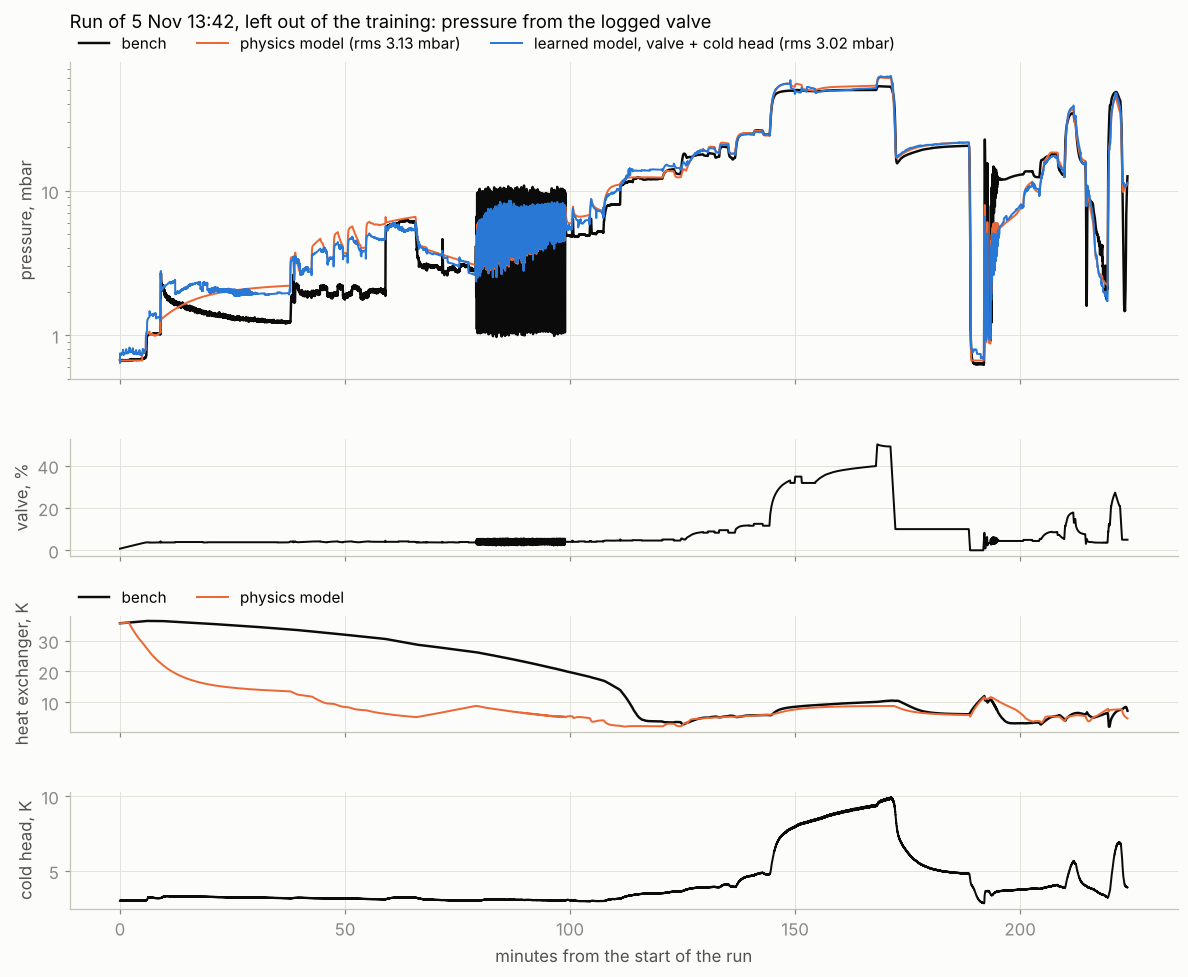
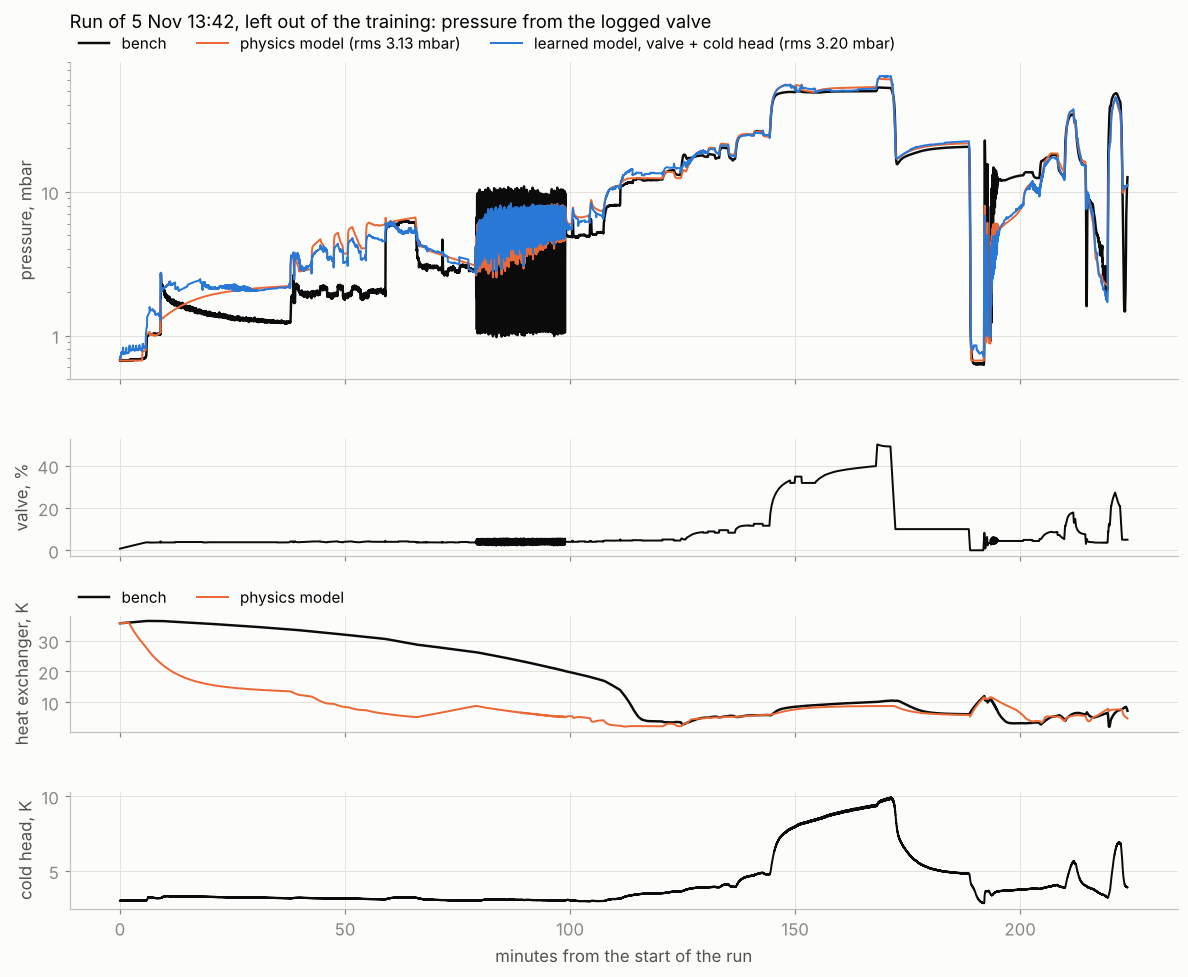
0.16.8 sim: learned fit rerun with the 10 Nov 17:25 log (16 logs)
The 24 mbar autotune and 48 mbar reach of 10 Nov 16:42 added as a ninth
held-out group. Valve alone still ties the physics model (1.47 against
1.45 mbar rms); with the cold head it is 1.36 mbar. Results, figures and
README numbers regenerated.

Claude-Session: https://claude.ai/code/session_01N4NW6yz4UDcWqUDw34ueg6

diff --git a/simulator/ml-fit/README.md b/simulator/ml-fit/README.md
@@ -8,46 +8,46 @@ python3 fit.py <folder of pmc_session_*.csv> [--out results]
 
 Needs numpy, scikit-learn and matplotlib (`tried/` also needs torch). Takes about 5 min the first time (it caches the physics runs in `results/features.pkl`). The session logs themselves are not in the repository.
 
-## Result (15 logs, 5 to 10 Nov 2026)
+## Result (16 logs, 5 to 10 Nov 2026)
 
-**On the valve alone, the learned model ties the physics model. Given the cold head temperature as well, it is about 10 % better overall, and clearly closer between 2 and 8 mbar (12 to 14 % off instead of 21 to 22 %). Under 2 mbar there is no gain.**
+**On the valve alone, the learned model ties the physics model. Given the cold head temperature as well, it is about 6 % better overall, and clearly closer between 2 and 8 mbar (10 to 13 % off instead of 21 to 22 %). Under 2 mbar there is no gain.**
 
-Median error of the pressure on held-out runs, as a percentage of the pressure (rms in mbar in brackets). Cryostat cold (heat exchanger under 20 K), 70,216 one-second samples:
+Median error of the pressure on held-out runs, as a percentage of the pressure (rms in mbar in brackets). Cryostat cold (heat exchanger under 20 K), 72,199 one-second samples:
 
 | Bench pressure, mbar | Physics model | Learned, valve only | Learned, valve + cold head |
 |---|---|---|---|
-| under 2 | 17 % (0.78) | 21 % (0.83) | 20 % (0.74) |
-| 2 to 4 | 21 % (1.11) | 23 % (1.01) | 12 % (0.87) |
-| 4 to 8 | 22 % (1.41) | 14 % (1.20) | 14 % (1.07) |
-| 8 to 24 | 8 % (1.18) | 8 % (1.43) | 6 % (1.21) |
-| over 24 | 2 % (3.35) | 1 % (2.62) | 1 % (2.61) |
-| all | 8 % (1.46) | 10 % (1.47) | 6 % (1.31) |
+| under 2 | 17 % (0.78) | 18 % (0.75) | 19 % (0.72) |
+| 2 to 4 | 21 % (1.11) | 9 % (0.86) | 10 % (0.82) |
+| 4 to 8 | 22 % (1.41) | 13 % (1.14) | 13 % (1.04) |
+| 8 to 24 | 8 % (1.18) | 9 % (1.47) | 7 % (1.25) |
+| over 24 | 2 % (2.91) | 1 % (2.32) | 1 % (2.50) |
+| all | 8 % (1.45) | 9 % (1.47) | 7 % (1.36) |
 
 ![error by pressure](results/error-by-pressure.png)
 
-Given the logged heat exchanger temperature too (the physics model then runs on it as well), the learned model is at 5 % (1.39 mbar) against 6 % (1.90 mbar). `results/results.txt` has every run and every variant; `results/held-out-<date>-<time>.png` draws each run with the model that was trained without it.
+Given the logged heat exchanger temperature too (the physics model then runs on it as well), the learned model is at 4 % (1.48 mbar) against 5 % (1.89 mbar). `results/results.txt` has every run and every variant; `results/held-out-<date>-<time>.png` draws each run with the model that was trained without it.
 
 What the logs say beyond the scores:
 
-- **The valve's zero moves between sessions, and that matters more than the choice of model.** The valve position where the pressure takes off shifted by -0.60 % (5 Nov), 0 (9 Nov), +0.45 % (10 Nov morning) and +0.55 % (10 Nov afternoon). The whole climb from 1 to 10 mbar spans about 0.5 % of travel. Without the shift, the physics model is 4.2 mbar off overall; with it, 1.5 mbar. Both models are given this one number per run.
-- **The physics model holds up on a run it was not fitted to.** The 10 Nov afternoon autotune (1 to 24 mbar) arrived after bench.c's numbers were set: 1.03 mbar rms with the shift.
+- **The valve's zero moves between sessions, and that matters more than the choice of model.** The valve position where the pressure takes off shifted by -0.60 % (5 Nov), 0 (9 Nov), +0.45 % (10 Nov morning), +0.55 % (10 Nov 12:21) and +0.80 % (10 Nov 16:42). The whole climb from 1 to 10 mbar spans about 0.5 % of travel. Without the shift, the physics model is 4.1 mbar off overall; with it, 1.5 mbar. Both models are given this one number per run.
+- **The physics model holds up on runs it was not fitted to.** The two 10 Nov afternoon runs arrived after bench.c's numbers were set: the 12:21 autotune (1 to 24 mbar) is 1.03 mbar rms with the shift, and the 16:42 run (24 mbar autotune, then up to 48 mbar) is 0.95 mbar.
 - **The cold head temperature carries information the valve does not.** It is the one extra input that improves the held-out scores, most likely because it follows how much liquid reaches the needle.
 - **Under 2 mbar the error is the needle, not the model.** In the 10 Nov 1 mbar relay the same opening move lifted the pressure after 19, 27 and 88 s. No model reading the valve can predict which.
 
 ## How it works
 
-`logs.py` reads the CSVs. The GUI saves its last 4 h, so saves a few minutes apart share samples: 169,080 rows hold 89,719 different samples. They are cut into runs (no gap over 5 s, MANUAL or AUTO), and runs less than an hour apart are held out together: 8 groups.
+`logs.py` reads the CSVs. The GUI saves its last 4 h, so saves a few minutes apart share samples: 171,664 rows hold 92,303 different samples. They are cut into runs (no gap over 5 s, MANUAL or AUTO), and runs less than an hour apart are held out together: 9 groups.
 
 `physics.py` runs bench.c's model on a logged valve (through `../wasm/fit_bench.py`, same numbers), finds each run's valve offset, and builds what the learned model reads each second: the valve, the needle after the opening stick, how far the valve is from its own average over the last 5 s to 33 min, the time since the last opening and closing move, how much it travelled in the last 1 and 10 min, and the physics model's own pressure and heat exchanger temperature.
 
-`fit.py` trains the learned model and scores it. The learned model is the physics model times a correction: gradient-boosted trees (scikit-learn, 200 trees of depth 4) that predict the factor the bench pressure is off the physics by. No correction is the physics model itself, so it cannot go far wrong where it has no data. Each group of runs is left out in turn; the trees are trained on the other seven and scored on the one left out. Their settings were fixed before the first score and not tuned on the held-out runs.
+`fit.py` trains the learned model and scores it. The learned model is the physics model times a correction: gradient-boosted trees (scikit-learn, 200 trees of depth 4) that predict the factor the bench pressure is off the physics by. No correction is the physics model itself, so it cannot go far wrong where it has no data. Each group of runs is left out in turn; the trees are trained on the other eight and scored on the one left out. Their settings were fixed before the first score and not tuned on the held-out runs.
 
 Rules of the comparison:
 
 - Both models get the logged readings for the first 2 min of a run and the valve alone after that. The first 10 min are not scored.
 - Both get the same valve offset for the run, the one that makes the physics model fit the whole run best. This uses the held-out run for one number, and it is chosen to suit the physics model.
 - Only samples with the heat exchanger under 20 K count, for training and for scores. bench.c does not describe the warm restarts of 5 and 6 Nov.
-- The physics model's numbers were set by hand on the 6, 9 and 10 Nov morning logs, so for it those runs are not unseen. Only the 10 Nov afternoon run is entirely new to it.
+- The physics model's numbers were set by hand on the 6, 9 and 10 Nov morning logs, so for it those runs are not unseen. Only the two 10 Nov afternoon runs (12:21 and 16:42) are entirely new to it.
 
 ## Tried and dropped
 
@@ -60,4 +60,4 @@ Both are in `tried/`, with what they scored in their headers.
 
 - The correction reads the physics model's state but does not feed back into it, so it cannot change how the heat exchanger evolves.
 - It is a Python model. It is not in the simulator page; putting it there means porting 200 small trees to C, and the valve-only version would gain nothing.
-- Eight groups of runs from one cryostat over five days. Each new log changes the scores; rerun `fit.py` on the folder with the new log added.
+- Nine groups of runs from one cryostat over five days. Each new log changes the scores; rerun `fit.py` on the folder with the new log added.
